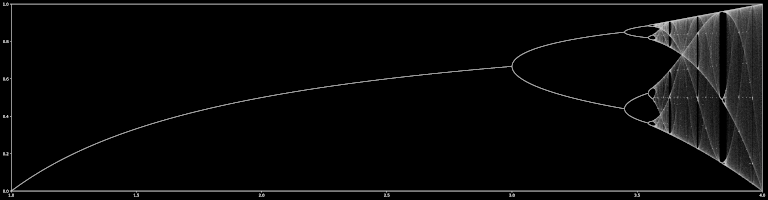
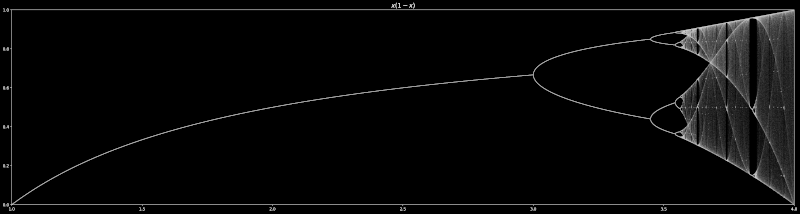
autoscale mapped function to 0.25 and autoprint title

diff --git a/logistic.py b/logistic.py
@@ -1,19 +1,22 @@
 #!python
-#-*- coding: utf-8 -*-
+# -*- coding: utf-8 -*-
 
 import numpy as np
 from tqdm import tqdm
 import matplotlib.pyplot as plt
+from sympy import diff, lambdify, latex, pi, roots, sin, symbols
 from os.path import isfile
-plt.style.use('dark_background')
 
-def logistic_map(r, x):
-    # Any function with roots at 0 and 1, and a maximum
-    # in-between with a value of 0.25
-    return r * x * (1 - x)
+x, r = symbols("x, r", real = True)
 
-grw_res = 12500 # points on [0,4]
-its = 625 # points to plot
+plt.style.use("dark_background")
+
+# Any function with roots at 0 and 1, and a maximum in-between
+# with a value of 0.25; exclude `r`, it'll be added later!
+fun = x * (1 - x)
+
+grw_res = 12500  # points on [0,4]
+its = 625  # points to plot
 pkl_name = "logistic"
 xmin = 1
 xmax = 4
@@ -26,22 +29,42 @@ else:
     A = np.zeros((grw_res, its))
     A[:, -1] = 0.5
 
+dfn = diff(fun, x)
+roots = []
+
+try:
+    rts = np.array(roots(dfn, x))
+except:
+    rts = np.array([0.5,])
+
+logistic = lambdify(x, fun)
+eps = 1e-16
+rts = rts[rts > -eps]
+rts = rts[rts < 1.0+eps]
+rts = rts[logistic(rts) > -eps]
+peak = np.amax(logistic(rts))
+
+logistic = lambdify([r, x], 0.25 / peak * r * fun)
+
+eqn = latex(fun)
 plt.figure(figsize=(36, 9))
+plt.title("${0}$".format(eqn), fontsize=16)
 
 for i in tqdm(np.arange(1, grw_res)):
-    r = xmin + ((xmax-xmin) * i) / grw_res
+    r = xmin + ((xmax - xmin) * i) / grw_res
 
     for n in range(10):
-        A[i,0] = logistic_map(r, A[i,-1])
+        A[i, 0] = logistic(r, A[i, -1])
 
         for j in np.arange(1, its):
-            A[i,j] = logistic_map(r, A[i,j-1])
+            A[i, j] = logistic(r, A[i, j - 1])
 
     x = r * np.ones(its)
-    plt.scatter(x, A[i,:], s=0.04, c="white", marker=",", alpha=0.02)
+    plt.scatter(x, A[i, :], s=0.04, c="white", marker=",", alpha=0.02)
 
 plt.xlim([xmin, xmax])
-plt.ylim([0,1])
+plt.ylim([0, 1])
 plt.savefig("logistic.png", dpi=400, bbox_inches="tight")
 
 np.save(pkl_name, A)
+

diff --git a/README.md b/README.md
@@ -5,19 +5,23 @@
 This repository contains code to generate and visualize the [logistic
 map](https://en.wikipedia.org/wiki/Logistic_map) using Python. It
 depends on matplotlib and sympy. To use this software, simply edit the
-`logistic_map` function in [logistic.py](). The standard equation is
+"`f`" expression at the top of [logistic.py](logistic.py). The standard
+equation is
 
 ``` python
 x * (1 - x)
 ```
 
-For compatibility, please ensure that any replacement function has a
-peak on the interval `[0, 1]` with a value of ¼. To achieve this, you
-can use the helper function [peak.py](), which uses SymPy to attempt to
-solve for local extrema and returns their values. Even if it cannot find
-a solution, e.g., for transcendental functions, it will plot your
-function as `f.png`.
+This function has a peak at (½, ¼); any test function should maintain
+this value at its peak, whether that occurs at *x*=½ or not. SymPy is
+therefore called upon to find local extrema, compute the value of the
+local maximum on the interval `[0, 1]`, and scales the function
+accordingly. If the extrema cannot be calculated (e.g., transcendental
+functions), the peak is assumed to lie at *x*=½, and the function is
+scaled to the value there. SymPy also converts the expression to LaTeX
+for use as the graph title.
 
-Results are stored to `logistic.npy`. If it exists, it will be read back
-in, so the map can simply resume from previous iterations. If you change
-the function or resolution, it is recommended that you delete this file.
+Results (raw data) are stored to `logistic.npy`. If it exists, it will
+be read back in, so the map can simply resume from previous iterations.
+If you change the function or resolution, it is recommended that you
+delete this file.
